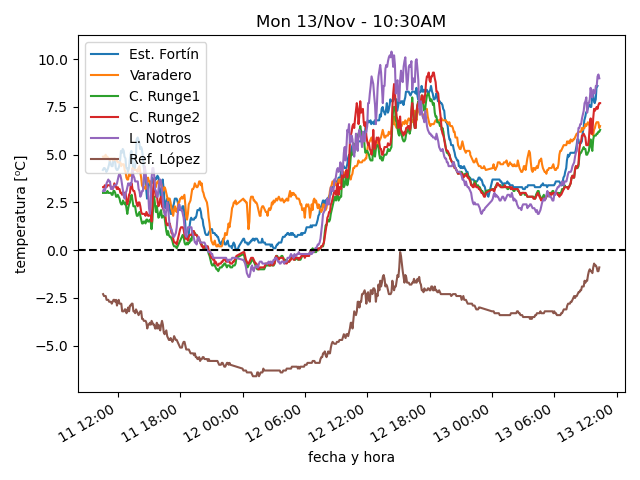
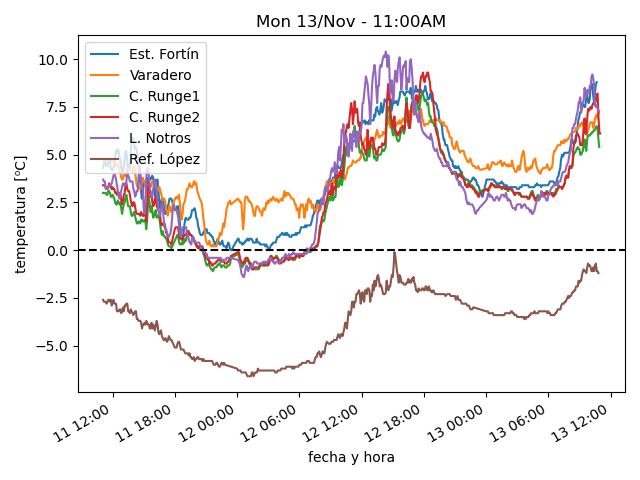
actualiza datos

diff --git a/estaciones/estacion3.html b/estaciones/estacion3.html
@@ -18,32 +18,32 @@
     </tr>
     <tr>
      <td class="stats_data">
-      10:24AM
+      10:54AM
      </td>
     </tr>
     <tr>
      <td class="stats_data">
-      6.3⁰C
+      5.4⁰C
      </td>
     </tr>
     <tr>
      <td class="stats_data">
-      2.2⁰C
+      1.8⁰C
      </td>
     </tr>
     <tr>
      <td class="stats_data">
-      74.5%
+      77.4%
      </td>
     </tr>
     <tr>
      <td class="stats_data">
-      1004.34hPa
+      1004.91hPa
      </td>
     </tr>
     <tr>
      <td class="stats_data">
-      17.6/26.7 km/hr NNW
+      15.1/24.4 km/hr NW
      </td>
     </tr>
     <tr>
@@ -53,12 +53,12 @@
     </tr>
     <tr>
      <td class="stats_data">
-      10.0
+      2.0
      </td>
     </tr>
     <tr>
      <td class="stats_data">
-      902.7 W/m²
+      242.5 W/m²
      </td>
     </tr>
    </tbody>

diff --git a/estaciones/estacion2.html b/estaciones/estacion2.html
@@ -18,32 +18,32 @@
     </tr>
     <tr>
      <td class="stats_data">
-      10:24AM
+      10:54AM
      </td>
     </tr>
     <tr>
      <td class="stats_data">
-      6.5⁰C
+      7.3⁰C
      </td>
     </tr>
     <tr>
      <td class="stats_data">
-      3.0⁰C
+      3.4⁰C
      </td>
     </tr>
     <tr>
      <td class="stats_data">
-      78.7%
+      76.2%
      </td>
     </tr>
     <tr>
      <td class="stats_data">
-      1019.74hPa
+      1019.81hPa
      </td>
     </tr>
     <tr>
      <td class="stats_data">
-      37.8/44.8 km/hr NW
+      34.8/40.7 km/hr NW
      </td>
     </tr>
     <tr>
@@ -53,12 +53,12 @@
     </tr>
     <tr>
      <td class="stats_data">
-      6.0
+      8.0
      </td>
     </tr>
     <tr>
      <td class="stats_data">
-      666.2 W/m²
+      828.6 W/m²
      </td>
     </tr>
    </tbody>

diff --git a/estaciones/estacion4.html b/estaciones/estacion4.html
@@ -18,32 +18,32 @@
     </tr>
     <tr>
      <td class="stats_data">
-      10:24AM
+      10:59AM
      </td>
     </tr>
     <tr>
      <td class="stats_data">
-      7.7⁰C
+      6.1⁰C
      </td>
     </tr>
     <tr>
      <td class="stats_data">
-      1.8⁰C
+      1.2⁰C
      </td>
     </tr>
     <tr>
      <td class="stats_data">
-      66.3%
+      71.0%
      </td>
     </tr>
     <tr>
      <td class="stats_data">
-      1013.24hPa
+      1013.61hPa
      </td>
     </tr>
     <tr>
      <td class="stats_data">
-      7.8/13.0 km/hr SSW
+      6.3/9.9 km/hr SW
      </td>
     </tr>
     <tr>
@@ -53,12 +53,12 @@
     </tr>
     <tr>
      <td class="stats_data">
-      6.0
+      2.0
      </td>
     </tr>
     <tr>
      <td class="stats_data">
-      683.9 W/m²
+      234.0 W/m²
      </td>
     </tr>
    </tbody>

diff --git a/estaciones/estacion6.html b/estaciones/estacion6.html
@@ -18,32 +18,32 @@
     </tr>
     <tr>
      <td class="stats_data">
-      10:20AM
+      10:50AM
      </td>
     </tr>
     <tr>
      <td class="stats_data">
-      -0.9⁰C
+      -1.2⁰C
      </td>
     </tr>
     <tr>
      <td class="stats_data">
-      -2.5⁰C
+      -2.7⁰C
      </td>
     </tr>
     <tr>
      <td class="stats_data">
-      89.0%
+      90.0%
      </td>
     </tr>
     <tr>
      <td class="stats_data">
-      1017.75hPa
+      1017.31hPa
      </td>
     </tr>
     <tr>
      <td class="stats_data">
-      9.7/22.5 km/hr NE
+      17.7/30.6 km/hr SE
      </td>
     </tr>
     <tr>
@@ -58,7 +58,7 @@
     </tr>
     <tr>
      <td class="stats_data">
-      898.0 W/m²
+      903.0 W/m²
      </td>
     </tr>
    </tbody>

diff --git a/estaciones/estacion1.html b/estaciones/estacion1.html
@@ -18,12 +18,12 @@
     </tr>
     <tr>
      <td class="stats_data">
-      10:09AM
+      10:39AM
      </td>
     </tr>
     <tr>
      <td class="stats_data">
-      8.6⁰C
+      8.8⁰C
      </td>
     </tr>
     <tr>
@@ -33,17 +33,17 @@
     </tr>
     <tr>
      <td class="stats_data">
-      56.0%
+      55.0%
      </td>
     </tr>
     <tr>
      <td class="stats_data">
-      1014.9hPa
+      1014.56hPa
      </td>
     </tr>
     <tr>
      <td class="stats_data">
-      17.8/30.6 km/hr W
+      20.4/34.3 km/hr WSW
      </td>
     </tr>
     <tr>
@@ -58,7 +58,7 @@
     </tr>
     <tr>
      <td class="stats_data">
-      1009.0 W/m²
+      998.0 W/m²
      </td>
     </tr>
    </tbody>

diff --git a/estaciones/estacion5.html b/estaciones/estacion5.html
@@ -18,32 +18,32 @@
     </tr>
     <tr>
      <td class="stats_data">
-      10:20AM
+      10:50AM
      </td>
     </tr>
     <tr>
      <td class="stats_data">
-      9.0⁰C
+      7.3⁰C
      </td>
     </tr>
     <tr>
      <td class="stats_data">
-      2.4⁰C
+      1.6⁰C
      </td>
     </tr>
     <tr>
      <td class="stats_data">
-      63.0%
+      67.0%
      </td>
     </tr>
     <tr>
      <td class="stats_data">
-      1015.61hPa
+      1016.32hPa
      </td>
     </tr>
     <tr>
      <td class="stats_data">
-      0.0/2.6 km/hr N
+      0.0/3.5 km/hr N
      </td>
     </tr>
     <tr>
